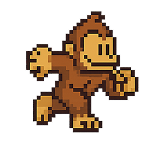
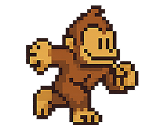
sprite adicionado
consegui adicionar um sprite dele parado, jogo nao ta funcionando, irei mexer mais!

Changed region(s): [[0.16, 0.024, 0.9333, 1.0]]

diff --git a/conguito/public/index.js b/conguito/public/index.js
@@ -239,7 +239,7 @@ class GameScene extends Phaser.Scene {
         this.load.image('ground', 'assets/plataformavoa.png');
         this.load.image('star', 'assets/banana.png');
         this.load.image('bomb', 'assets/bomb.png');
-        this.load.spritesheet('dude', 'assets/dude.png', { frameWidth: 32, frameHeight: 48 });
+       
         this.load.image('aviao', 'assets/aviao.png');
         this.load.spritesheet('aviaoAnimVeloc', 'assets/aviaospritesheet-aumentoVelocidade.png', {
             frameWidth: 109,
@@ -248,7 +248,12 @@ class GameScene extends Phaser.Scene {
         });
         ////////////carregando personagemmmm!!
 
-        this.load.image('frente', 'assets/parado.png');
+        this.load.spritesheet('parado', 'assets/spriteparado.png',{
+            frameWidth: 150,
+            frameHeight: 140
+
+        });
+
         this.load.image('ladoD', 'assets/andando.png');
         this.load.image('ladoE', 'assets/andando.png');
         this.load.image('salto', 'assets/salto.png');
@@ -313,7 +318,7 @@ class GameScene extends Phaser.Scene {
         platforms.create(100, 230, 'ground').setFlipX(true).setScale(0.85).refreshBody();
 
 
-        this.player = this.physics.add.sprite(100, 450, 'frente');
+        this.player = this.physics.add.sprite(100, 450, 'parado');
         this.player.setBounce(0.2);
         this.player.setCollideWorldBounds(true);
         this.player.setScale(0.4);
@@ -330,7 +335,7 @@ class GameScene extends Phaser.Scene {
 
         this.cursors = this.input.keyboard.createCursorKeys();
         ///////////////////////////////////////////////////////////////
-        ////// conguitaaaaaa
+        
         // Cria o grupo de estrelas (bananas)
         this.stars = this.physics.add.group();
 
@@ -378,6 +383,17 @@ class GameScene extends Phaser.Scene {
         this.aviao.setCollideWorldBounds(true);
         this.aviao.setBounce(1, 0);
         this.aviao.body.allowGravity = false; // Avião não é afetado pela gravidade
+
+        ///////sprite parado animação//////////
+
+        this.anims.create({
+            key: 'spriteparado',
+            frames: this.anims.generateFrameNumbers('parado', { start: 0, end: 4 }),
+            frameRate: 5, // Ajuste este valor para controlar a velocidade da respiração
+            repeat: -1 // Loop infinito
+        });
+        this.player.play('spriteparado');
+
 
         // Timer que solta bombas a cada 5 segundos
         this.time.addEvent({
@@ -477,7 +493,10 @@ class GameScene extends Phaser.Scene {
             this.player.setFlipX(false);
         } else {
             this.player.setVelocityX(0);
-            this.player.setTexture('frente');
+             if (this.player.body.touching.down && !this.player.anims.isPlaying) {
+                this.player.play('idleBreathingAnim');
+            // Adicione this.player.setFlipX(false); ou true se sua animação precisar.
+    }
         }
 
         if ((this.cursors.up.isDown || this.keyW.isDown || this.keySpace.isDown) && this.player.body.touching.down) {
@@ -657,9 +676,14 @@ if (this.score >= 200) {
             this.player.setTexture('morto').setScale(0.35); // Define a textura para morto para a direita
         }
 
+
+        if (this.player.anims.isPlaying) { this.player.stop(); }
+        
         // Parar a física para o jogador não continuar se mexendo
         this.player.setVelocity(0, 0);
         this.player.body.enable = false;
+
+        
 
         const somDerrota = this.sound.add('perdeu');
         somDerrota.play();
